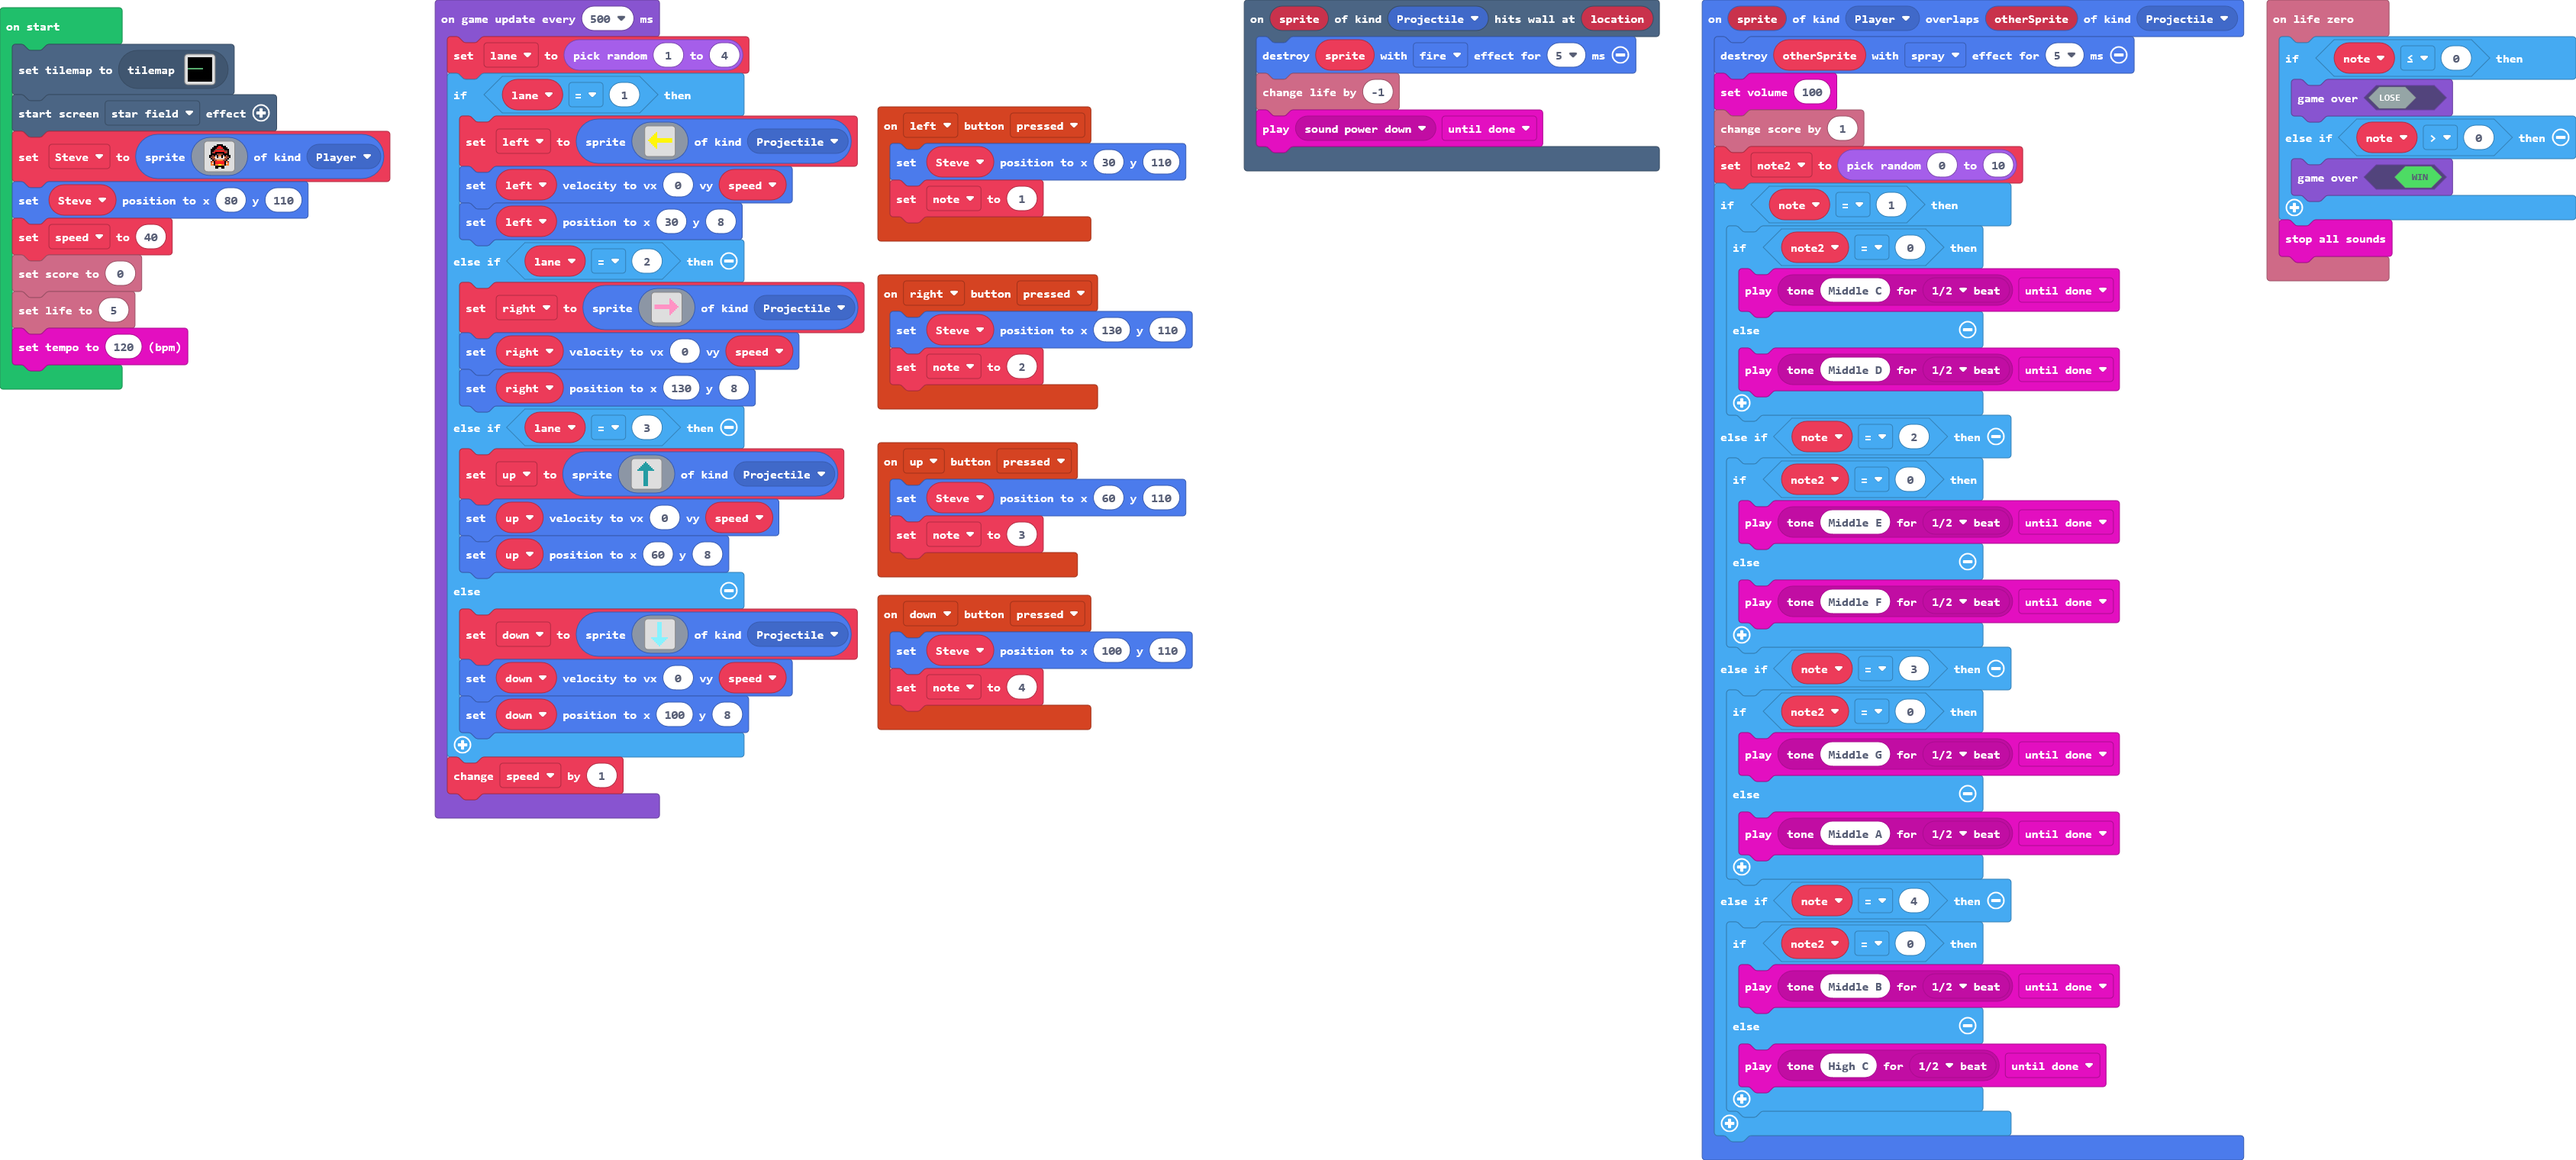
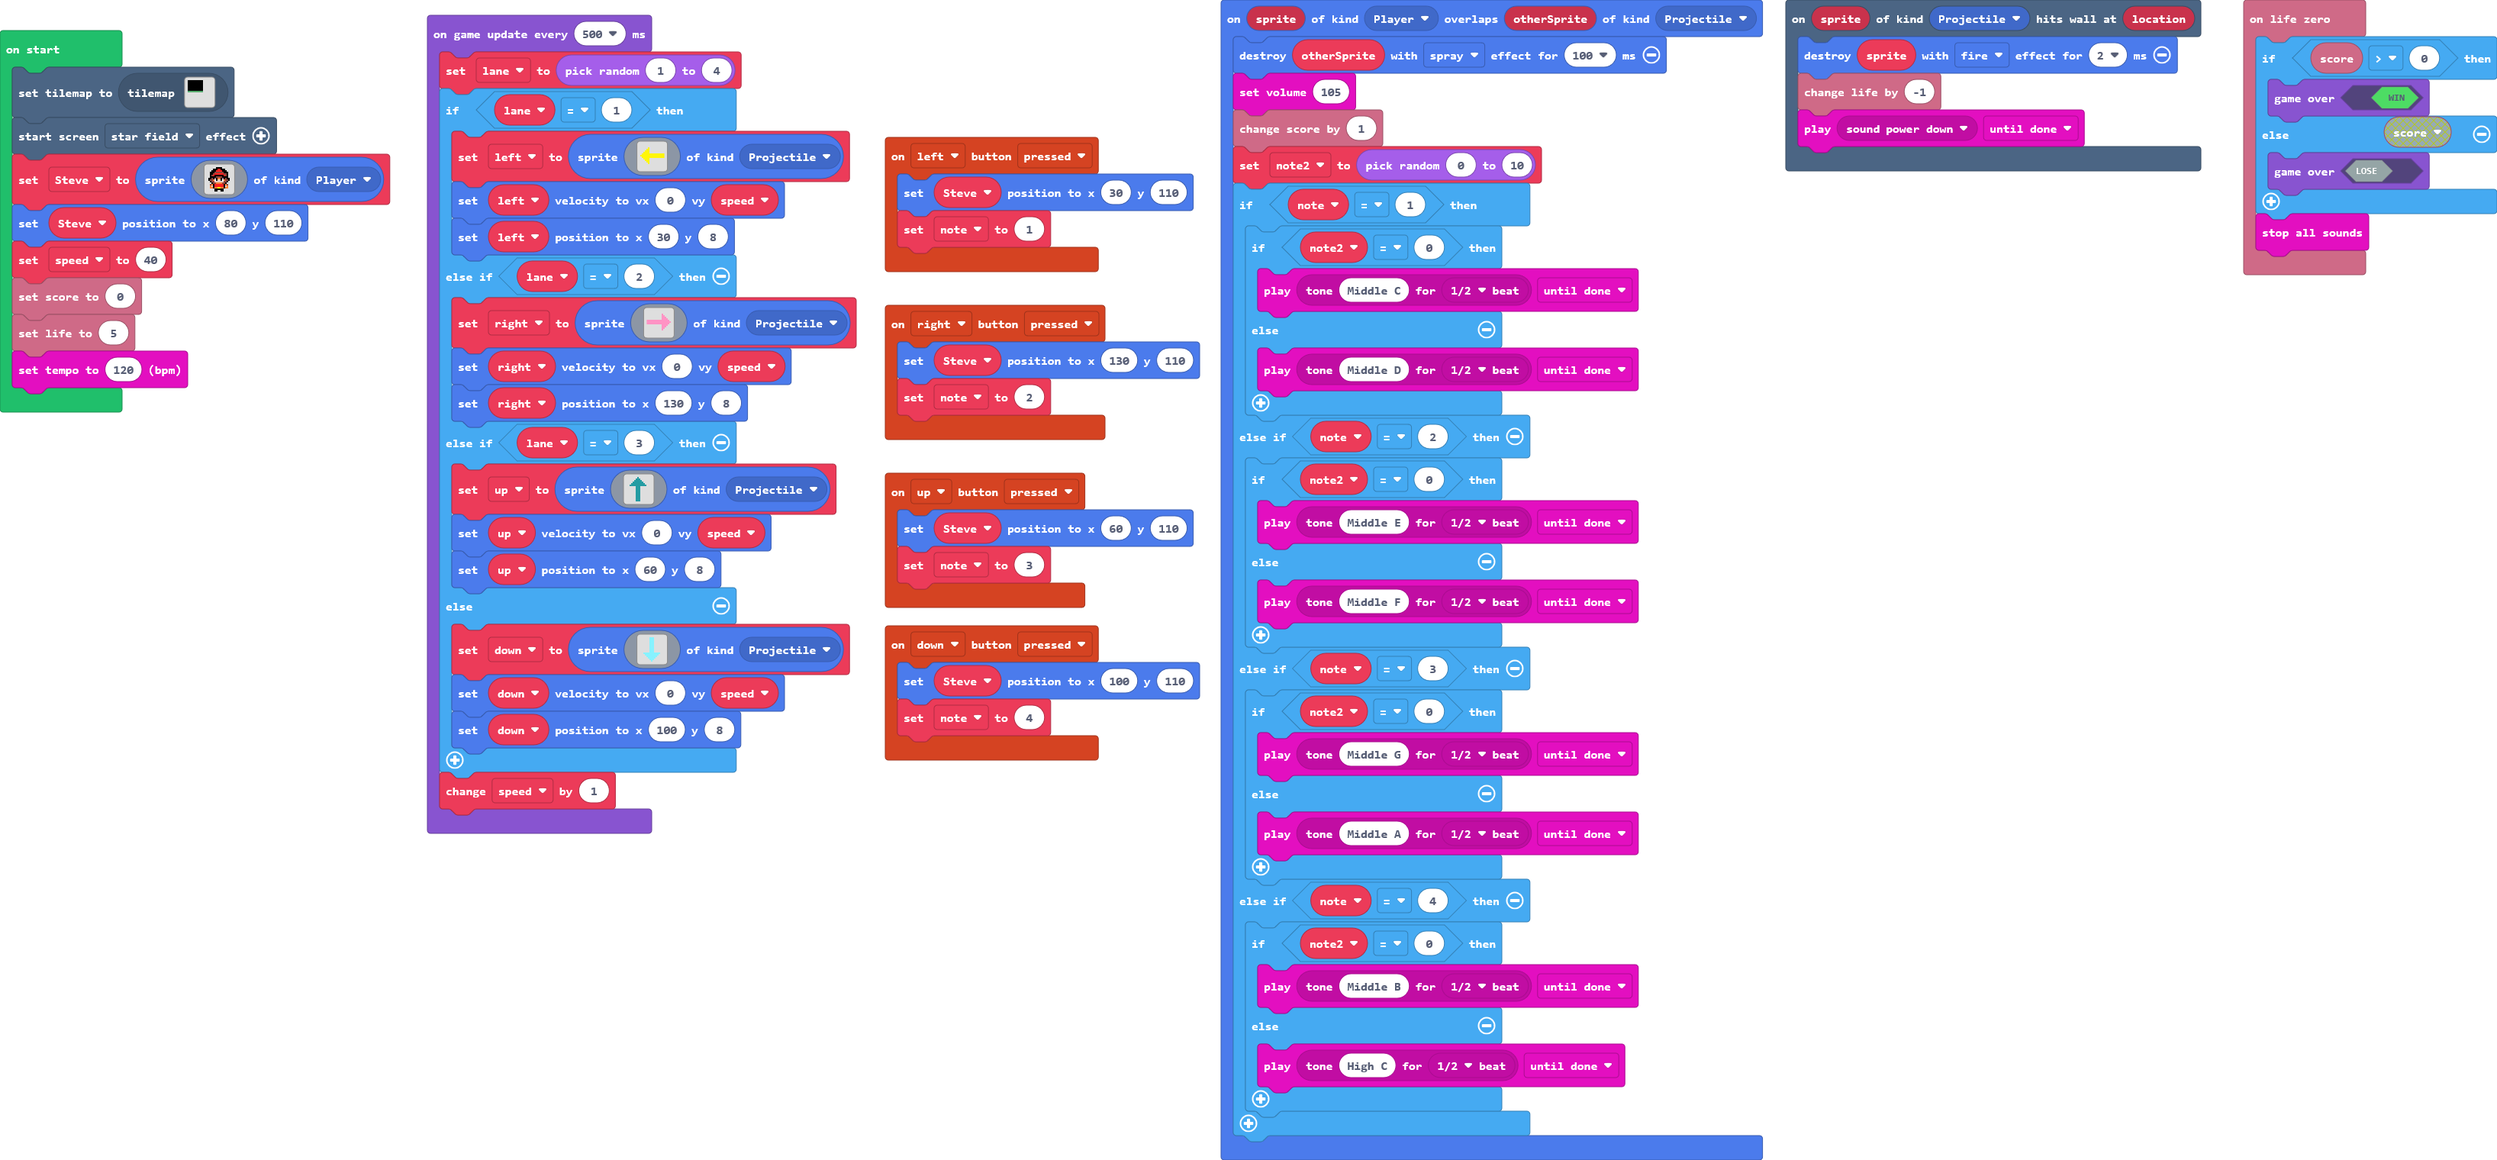
add new walk and more validate for best experience

diff --git a/tilemap.g.ts b/tilemap.g.ts
@@ -25,7 +25,7 @@ namespace myTiles {
 . . . . . . . . . . . . . . . . 
 `, [myTiles.transparency16,sprites.builtin.forestTiles10,sprites.builtin.forestTiles2], TileScale.Sixteen);
             case "level2":
-            case "level2":return tiles.createTilemap(hex`1000100004040404040404040404040404040404040404040404040404040404040404040404040404040404040404040404040404040404040404040404040404040404040404040404040404040404040404040404040404040404040404040404040404040404040404040404040404040404020101010101010101030404040404040404040404040404040404040404040404040404040404040404040404040404040404040404040404040404040404040404040404040404040404040404040404040404040404040404040404040404040404040404040404040404040404040404040404040404040404040404040404040404040404040404040404040404`, img`
+            case "level2":return tiles.createTilemap(hex`1000100004040404040404040404000000000000040404040404040404040000000000000404040404040404040400000000000004040404040404040404000000000000040404040404040404040000000000000404040404040404040400000000000004040404040404040404000000000000020101010101010101030000000000000000000000000000000000000000000000000000000000000000000000000000000000000000000000000000000000000000000000000000000000000000000000000000000000000000000000000000000000000000000000000000000000000000000000000000000000000000000000000000000000000000000000000000`, img`
 . . . . . . . . . . . . . . . . 
 . . . . . . . . . . . . . . . . 
 . . . . . . . . . . . . . . . . 
@@ -34,7 +34,7 @@ namespace myTiles {
 . . . . . . . . . . . . . . . . 
 . . . . . . . . . . . . . . . . 
 . . . . . . . . . . . . . . . . 
-. . . . . . . . . . . . . . . . 
+2 2 2 2 2 2 2 2 2 2 . . . . . . 
 . . . . . . . . . . . . . . . . 
 . . . . . . . . . . . . . . . . 
 . . . . . . . . . . . . . . . . 

diff --git a/main.ts b/main.ts
@@ -11,8 +11,8 @@ controller.right.onEvent(ControllerButtonEvent.Pressed, function () {
     note = 2
 })
 sprites.onOverlap(SpriteKind.Player, SpriteKind.Projectile, function (sprite, otherSprite) {
-    sprites.destroy(otherSprite, effects.spray, 5)
-    music.setVolume(100)
+    sprites.destroy(otherSprite, effects.spray, 100)
+    music.setVolume(105)
     info.changeScoreBy(1)
     note2 = randint(0, 10)
     if (note == 1) {
@@ -46,15 +46,15 @@ controller.down.onEvent(ControllerButtonEvent.Pressed, function () {
     note = 4
 })
 info.onLifeZero(function () {
-    if (note <= 0) {
-        game.gameOver(false)
-    } else if (note > 0) {
+    if (info.score() > 0) {
         game.gameOver(true)
+    } else {
+        game.gameOver(false)
     }
     music.stopAllSounds()
 })
 scene.onHitWall(SpriteKind.Projectile, function (sprite, location) {
-    sprites.destroy(sprite, effects.fire, 5)
+    sprites.destroy(sprite, effects.fire, 2)
     info.changeLifeBy(-1)
     music.play(music.melodyPlayable(music.powerDown), music.PlaybackMode.UntilDone)
 })
